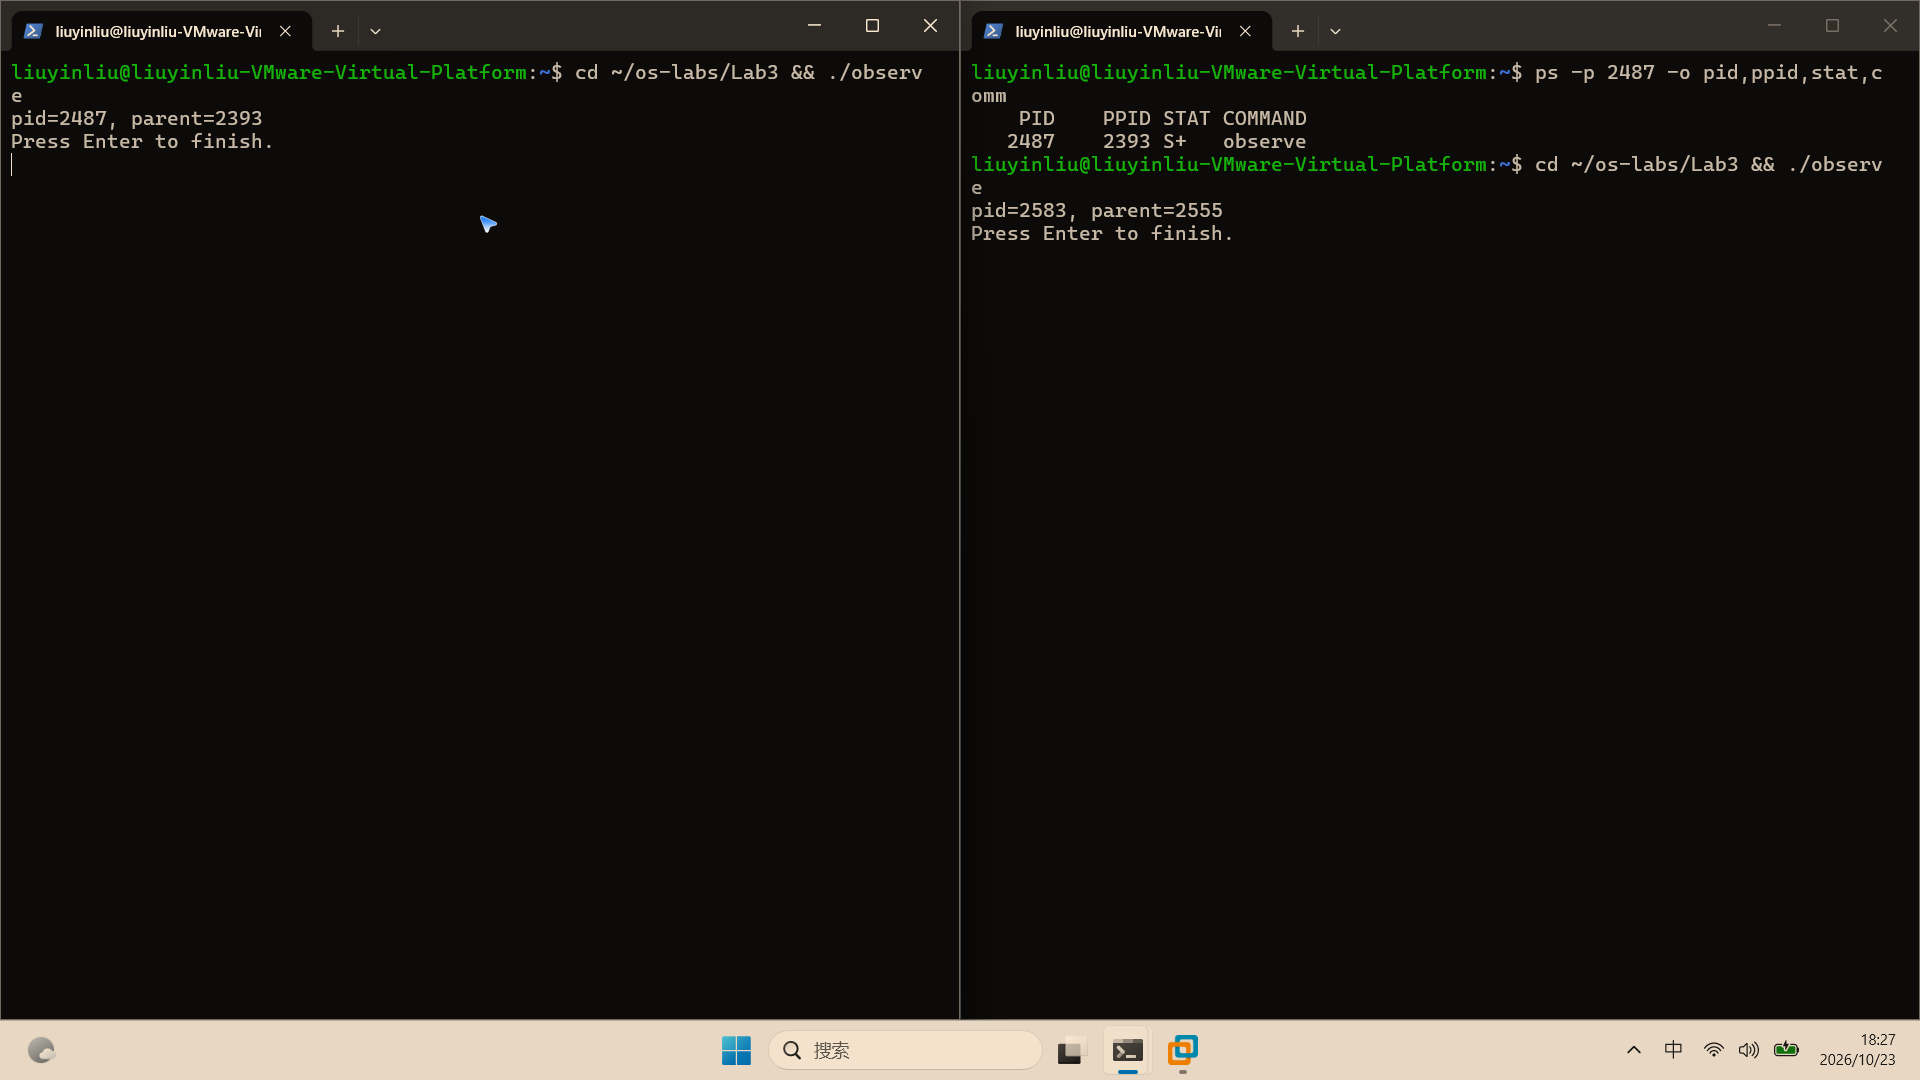
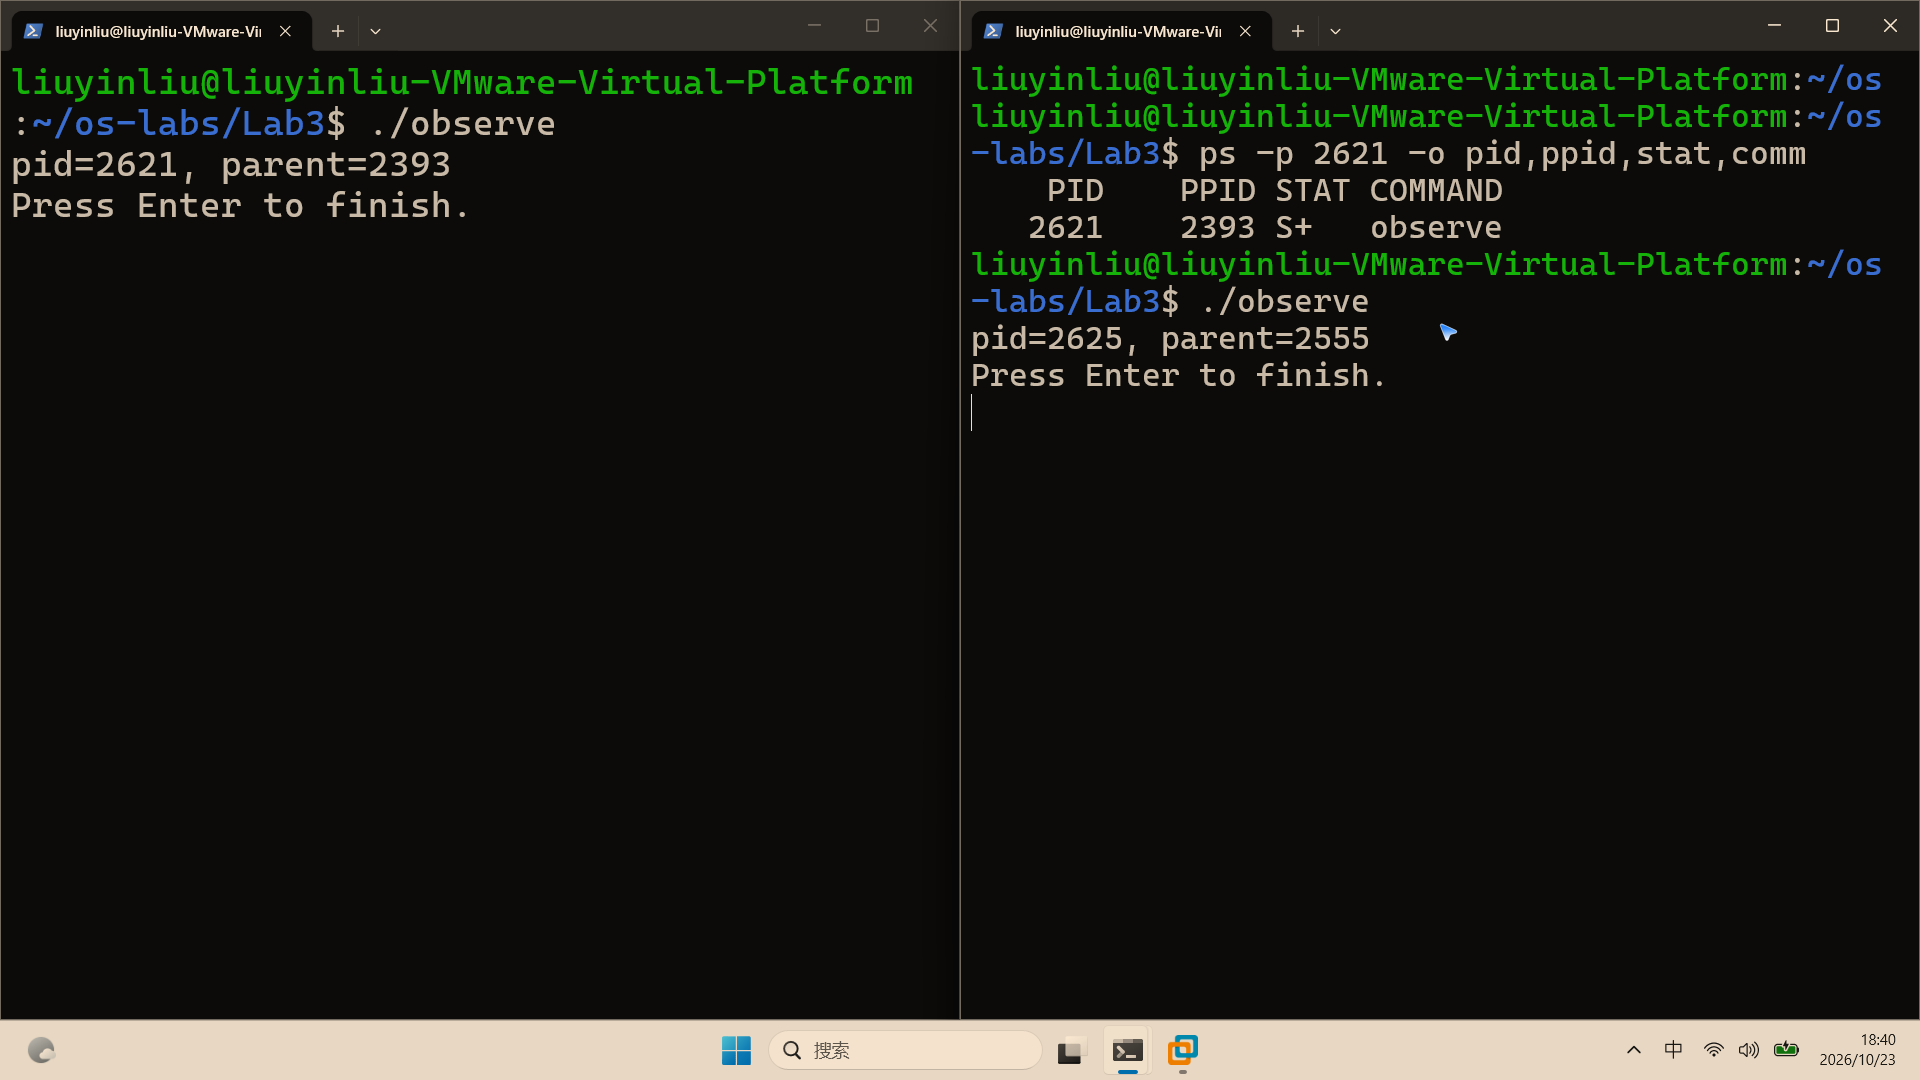
Lab3: 放大终端字体重截, family 两窗口均有输出, 同步新 PID

Changed region(s): [[0.0, 0.0611, 1.0, 0.3667], [0.8438, 0.2139, 0.9375, 0.275]]

diff --git a/2026333009刘银柳/Lab3/Lab3.md b/2026333009刘银柳/Lab3/Lab3.md
@@ -250,7 +250,7 @@ ps -p 2401 -o pid,ppid,stat,comm
 
 | 字段 | observe 自己输出 | ps 查询输出 | 是否一致或如何解释 |
 | :--- | :--- | :--- | :--- |
-| PID | 2487 | 2487 | 一致，两个来源都是 2487 |
+| PID | 2621 | 2621 | 一致，两个来源都是 2621 |
 | PPID | 2393 | 2393 | 一致，父进程都是终端 A 的 Shell（bash） |
 | STAT | 不由 observe 显示 | S+ | `S`=可中断睡眠（在等键盘输入），`+`=前台进程组 |
 | COMM | 不由 observe 显示 | observe | 与可执行文件名一致 |
@@ -278,13 +278,13 @@ ps -p 2401 -o pid,ppid,stat,comm
 | 比较项 | A 中的运行 | B 中的运行 |
 | :--- | :--- | :--- |
 | 可执行文件名 | observe | observe |
-| 实际 PID | 2487 | 2583 |
+| 实际 PID | 2621 | 2625 |
 | 实际 PPID | 2393 | 2555 |
 | 是否仍在等待回车 | 是 | 是 |
 
 **解释：**为什么同一份文件可以有两个 PID？两个 PPID 是否必须相同？结合你使用两个 Shell 的实际情况说明。
 
-> 填写：同一份可执行文件只是磁盘上的一段程序，运行它时内核会为这一次执行创建一个独立的进程，并分配不同的 PID，所以同一份 observe 文件可以同时有两个进程（2487 和 2583）。两个 PPID 不必相同：A 和 B 是两个独立的 SSH 会话，各有自己的 Shell（bash）进程，A 的 observe 由 PID 为 2393 的 bash 启动，B 的 observe 由 PID 为 2555 的 bash 启动，所以两个父进程的 PID 不同。
+> 填写：同一份可执行文件只是磁盘上的一段程序，运行它时内核会为这一次执行创建一个独立的进程，并分配不同的 PID，所以同一份 observe 文件可以同时有两个进程（2621 和 2625）。两个 PPID 不必相同：A 和 B 是两个独立的 SSH 会话，各有自己的 Shell（bash）进程，A 的 observe 由 PID 为 2393 的 bash 启动，B 的 observe 由 PID 为 2555 的 bash 启动，所以两个父进程的 PID 不同。
 
 ### 第二步：画两条父子链
 
@@ -292,8 +292,8 @@ ps -p 2401 -o pid,ppid,stat,comm
 
 | 链路 | 父（Shell）的 PID | 子（observe）的 PID |
 | :--- | :--- | :--- |
-| 终端 A 这一支 | 2393 | 2487 |
-| 终端 B 这一支 | 2555 | 2583 |
+| 终端 A 这一支 | 2393 | 2621 |
+| 终端 B 这一支 | 2555 | 2625 |
 
 **回答：**两条链的「父」为什么是不同的数字？
 
@@ -323,8 +323,8 @@ echo $?
 
 | 项目 | 本人结果 |
 | :--- | :--- |
-| 结束后查询的实际命令 | `ps -p 2487 -o pid,ppid,stat,comm` |
-| `ps` 实际输出/是否仍有数据行 | 只剩表头 `PID PPID STAT COMMAND`，没有 2487 的数据行（进程已退出） |
+| 结束后查询的实际命令 | `ps -p 2621 -o pid,ppid,stat,comm` |
+| `ps` 实际输出/是否仍有数据行 | 只剩表头 `PID PPID STAT COMMAND`，没有 2621 的数据行（进程已退出） |
 | 紧接 `ps` 的结束状态 | `echo $?` 输出 1（非零）：`ps` 找不到所选进程，不是系统故障 |
 | 磁盘上的 observe 文件是否仍然存在；怎样检查 | 仍然存在：`ls -l observe` 显示 `-rwxrwxr-x 1 liuyinliu liuyinliu 16136 10月 21 20:50 observe` |
 
@@ -447,14 +447,14 @@ echo $?
 
 | 运行 | 子 pid | 子行中的 parent | 父完成行的 pid | 输出顺序 | 结束状态 |
 | :--- | :--- | :--- | :--- | :--- | :--- |
-| 第一次 | 2591 | 2590 | 2590 | child 行先出现，parent 完成行后出现 | 0 |
-| 第二次 | 2593 | 2592 | 2592 | child 行先出现，parent 完成行后出现 | 0 |
+| 第一次 | 2637 | 2636 | 2636 | child 行先出现，parent 完成行后出现 | 0 |
+| 第二次 | 2639 | 2638 | 2638 | child 行先出现，parent 完成行后出现 | 0 |
 
 **回答：**
 
 1. 本例中的 fork 返回 0 是否意味着子 PID 为 0？
 
-> 填写：不是。`fork` 返回 0 只是用来标记「当前执行到这里的进程是子进程」，子进程自己的 PID 要调用 `getpid()` 取得（本例分别是 2591、2593），不会是 0；PID 0 一般不用作普通进程编号。
+> 填写：不是。`fork` 返回 0 只是用来标记「当前执行到这里的进程是子进程」，子进程自己的 PID 要调用 `getpid()` 取得（本例分别是 2637、2639），不会是 0；PID 0 一般不用作普通进程编号。
 
 2. 如果只看 C 文件中哪一行写在上面，能否一般地判断父子执行先后？本例的 `waitpid` 提供了什么保证？
 
@@ -535,7 +535,7 @@ echo $?
 
 4. 本次遇到的一个问题、你的定位方法和最终状态；若没有遇到故障，写一个自己主动核对的步骤。
 
-> 填写：在终端 B 直接执行 `./observe` 时报错 `-bash: ./observe: 没有那个文件或目录`。定位方法：看到 "No such file or directory" 后，判断是当前目录不对——B 终端还停在主目录 `~`，而 `observe` 可执行文件在练习目录 `~/os-labs/Lab3` 里；先执行 `cd ~/os-labs/Lab3` 再重新运行 `./observe`，成功输出 `pid=2583, parent=2555`。最终状态：已解决，后续命令都在练习目录中执行。
+> 填写：在终端 B 直接执行 `./observe` 时报错 `-bash: ./observe: 没有那个文件或目录`。定位方法：看到 "No such file or directory" 后，判断是当前目录不对——B 终端还停在主目录 `~`，而 `observe` 可执行文件在练习目录 `~/os-labs/Lab3` 里；先执行 `cd ~/os-labs/Lab3` 再重新运行 `./observe`，成功输出 `pid=2625, parent=2555`。最终状态：已解决，后续命令都在练习目录中执行。
 
 ---
 
